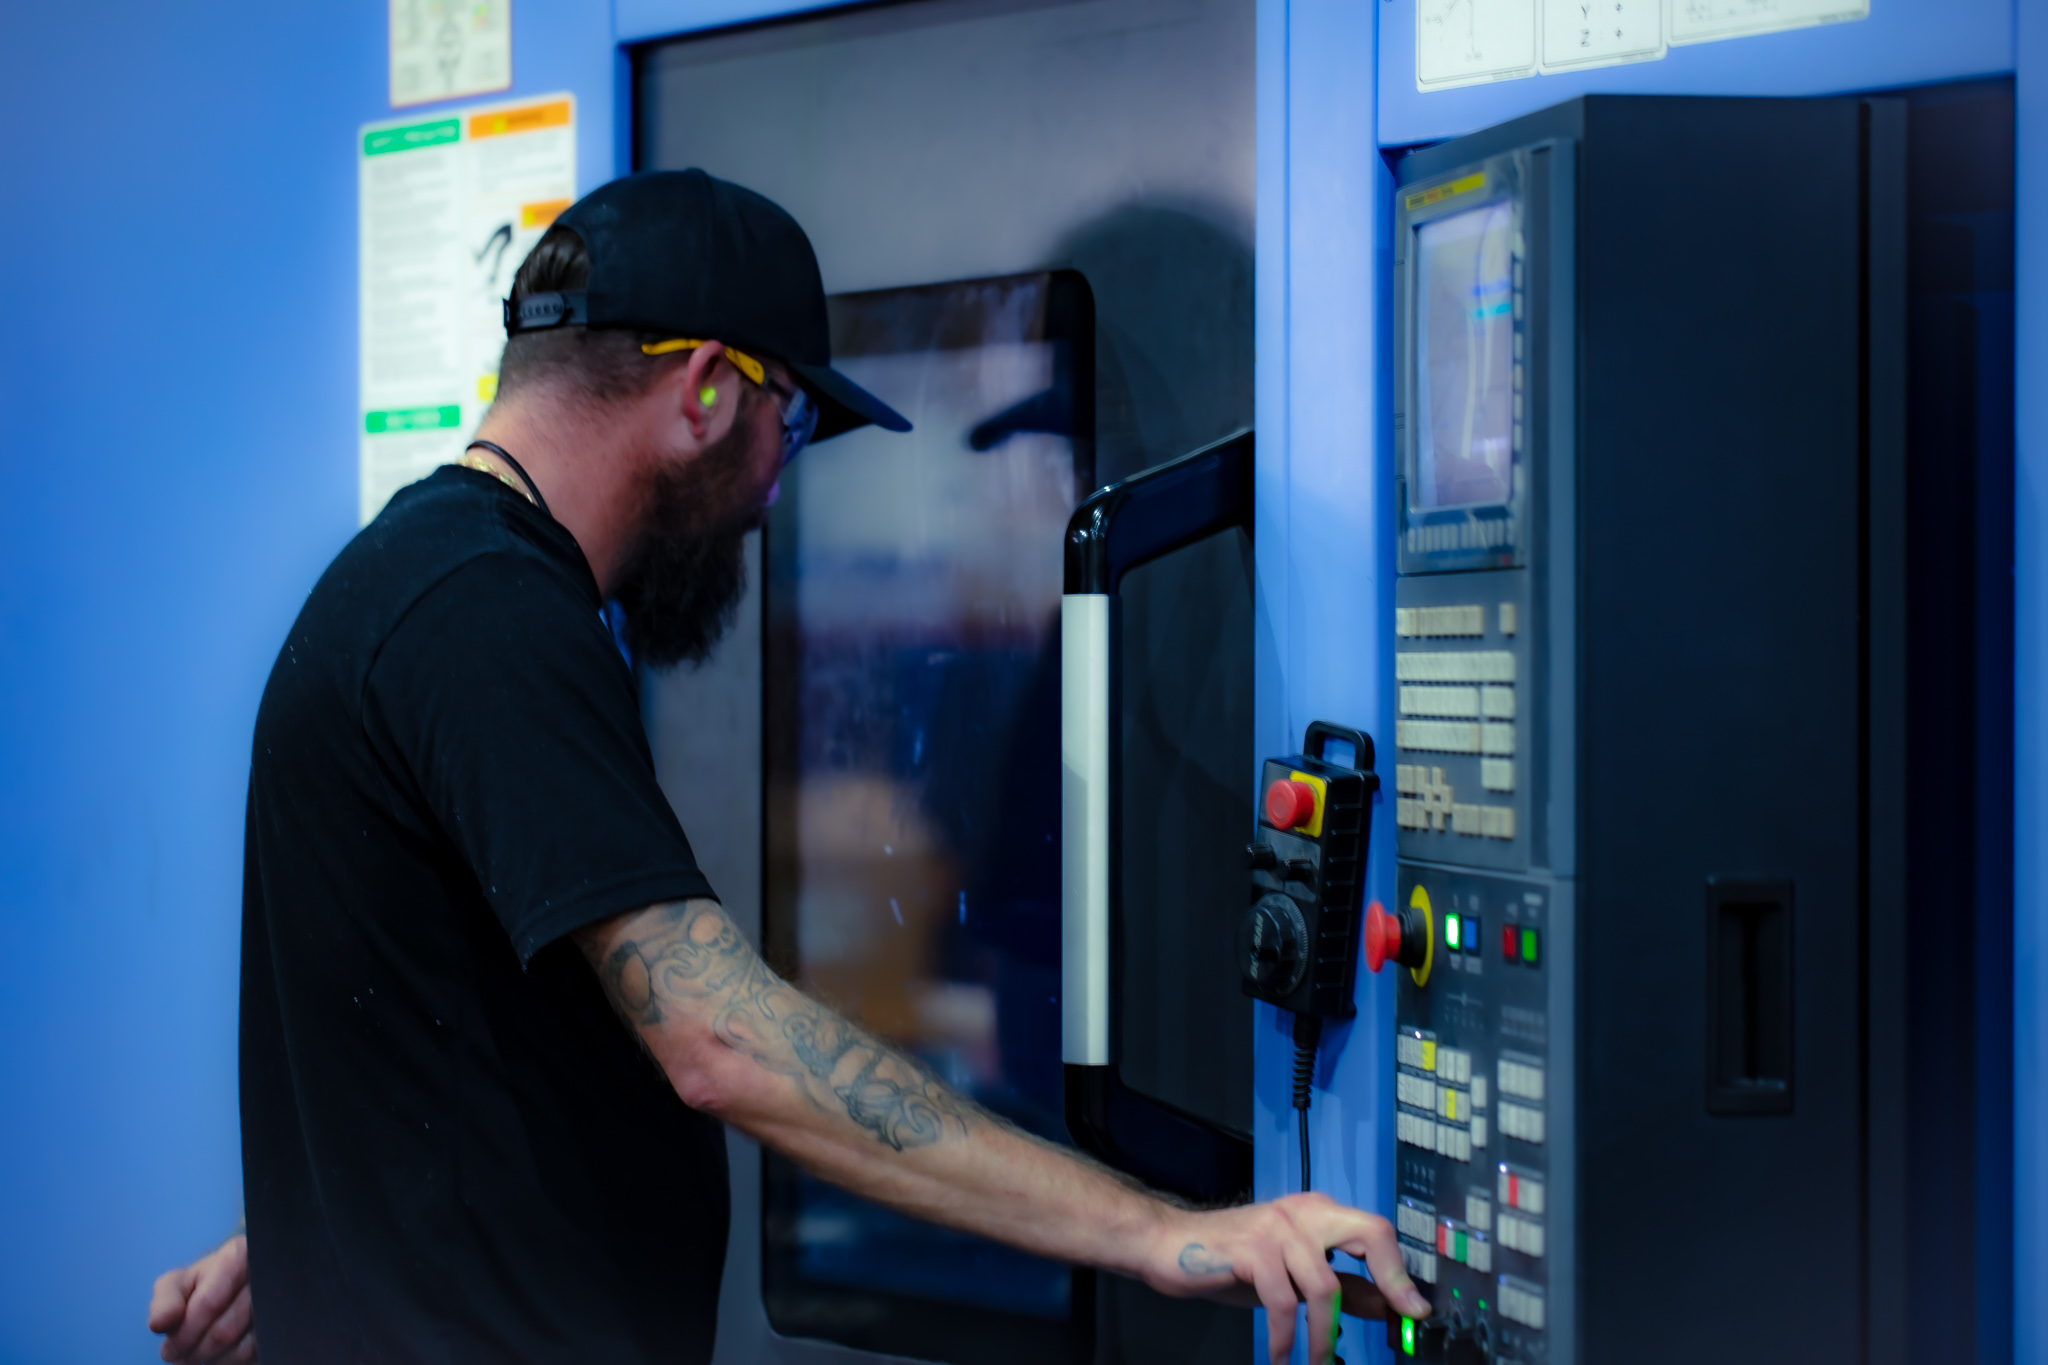
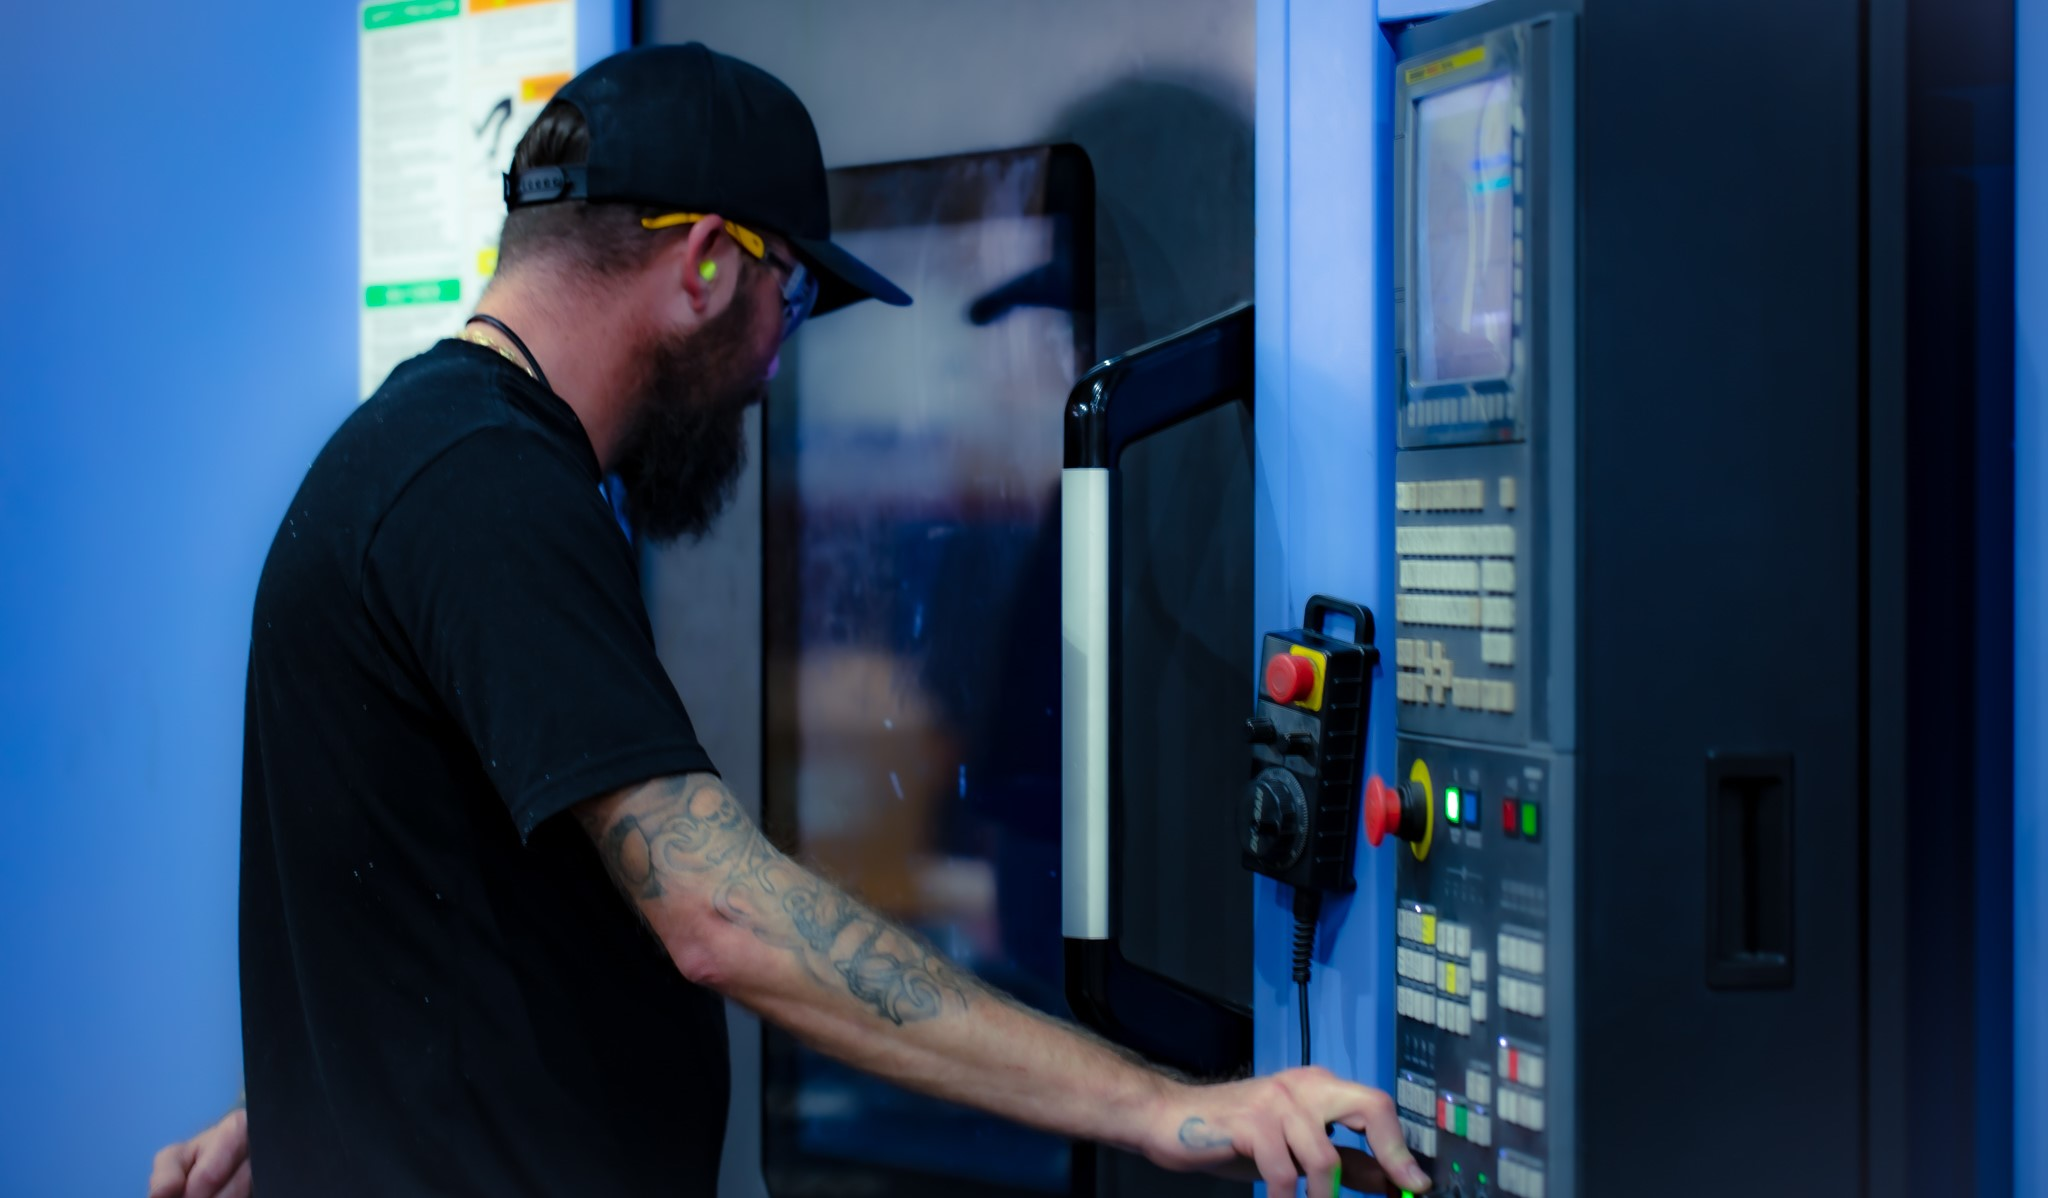
Hero edits

diff --git a/src/Pages/Solutions.jsx b/src/Pages/Solutions.jsx
@@ -11,9 +11,9 @@ import { Link } from "react-router-dom";
 export function Solutions() {
   return (
     <div className="solutions">
-      <section className="solutionsBanner">
+      {/* <section className="solutionsBanner">
         <h2>Solutions</h2>
-      </section>
+      </section> */}
       <section className="solutionsHero">
         <img src={SolutionsBanner} />
       </section>

diff --git a/src/Styles/solutions.scss b/src/Styles/solutions.scss
@@ -17,7 +17,7 @@
   }
 
   .solutionsHero {
-    width: 65%;
+    width: 55%;
     padding-bottom: 60px;
 
     img {
